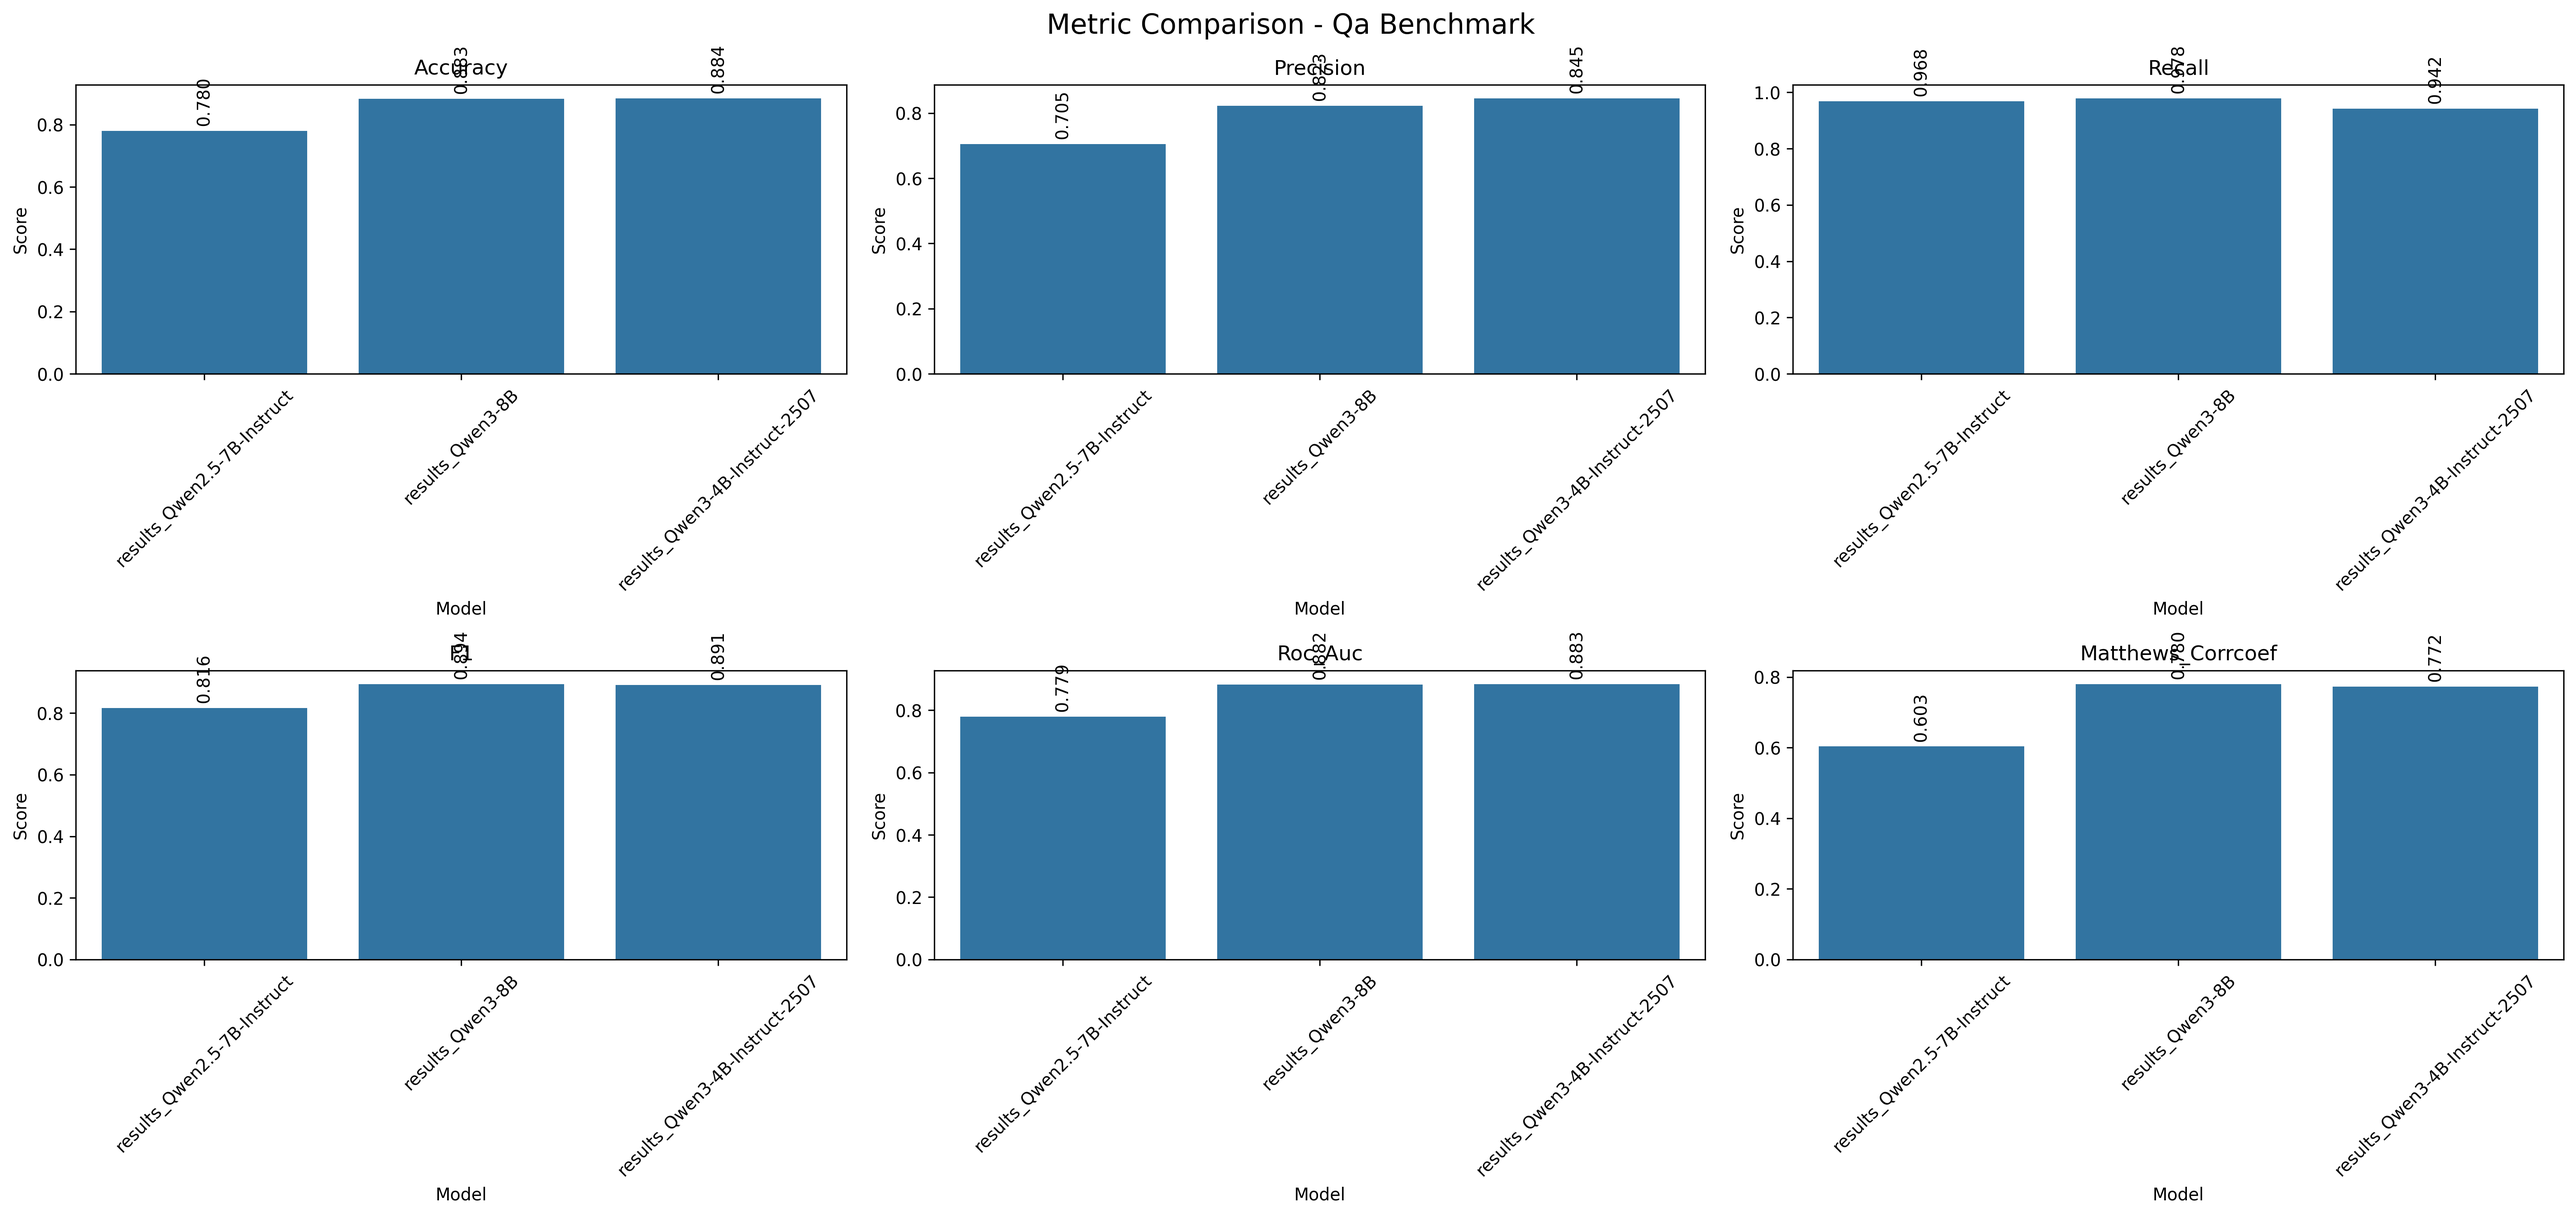
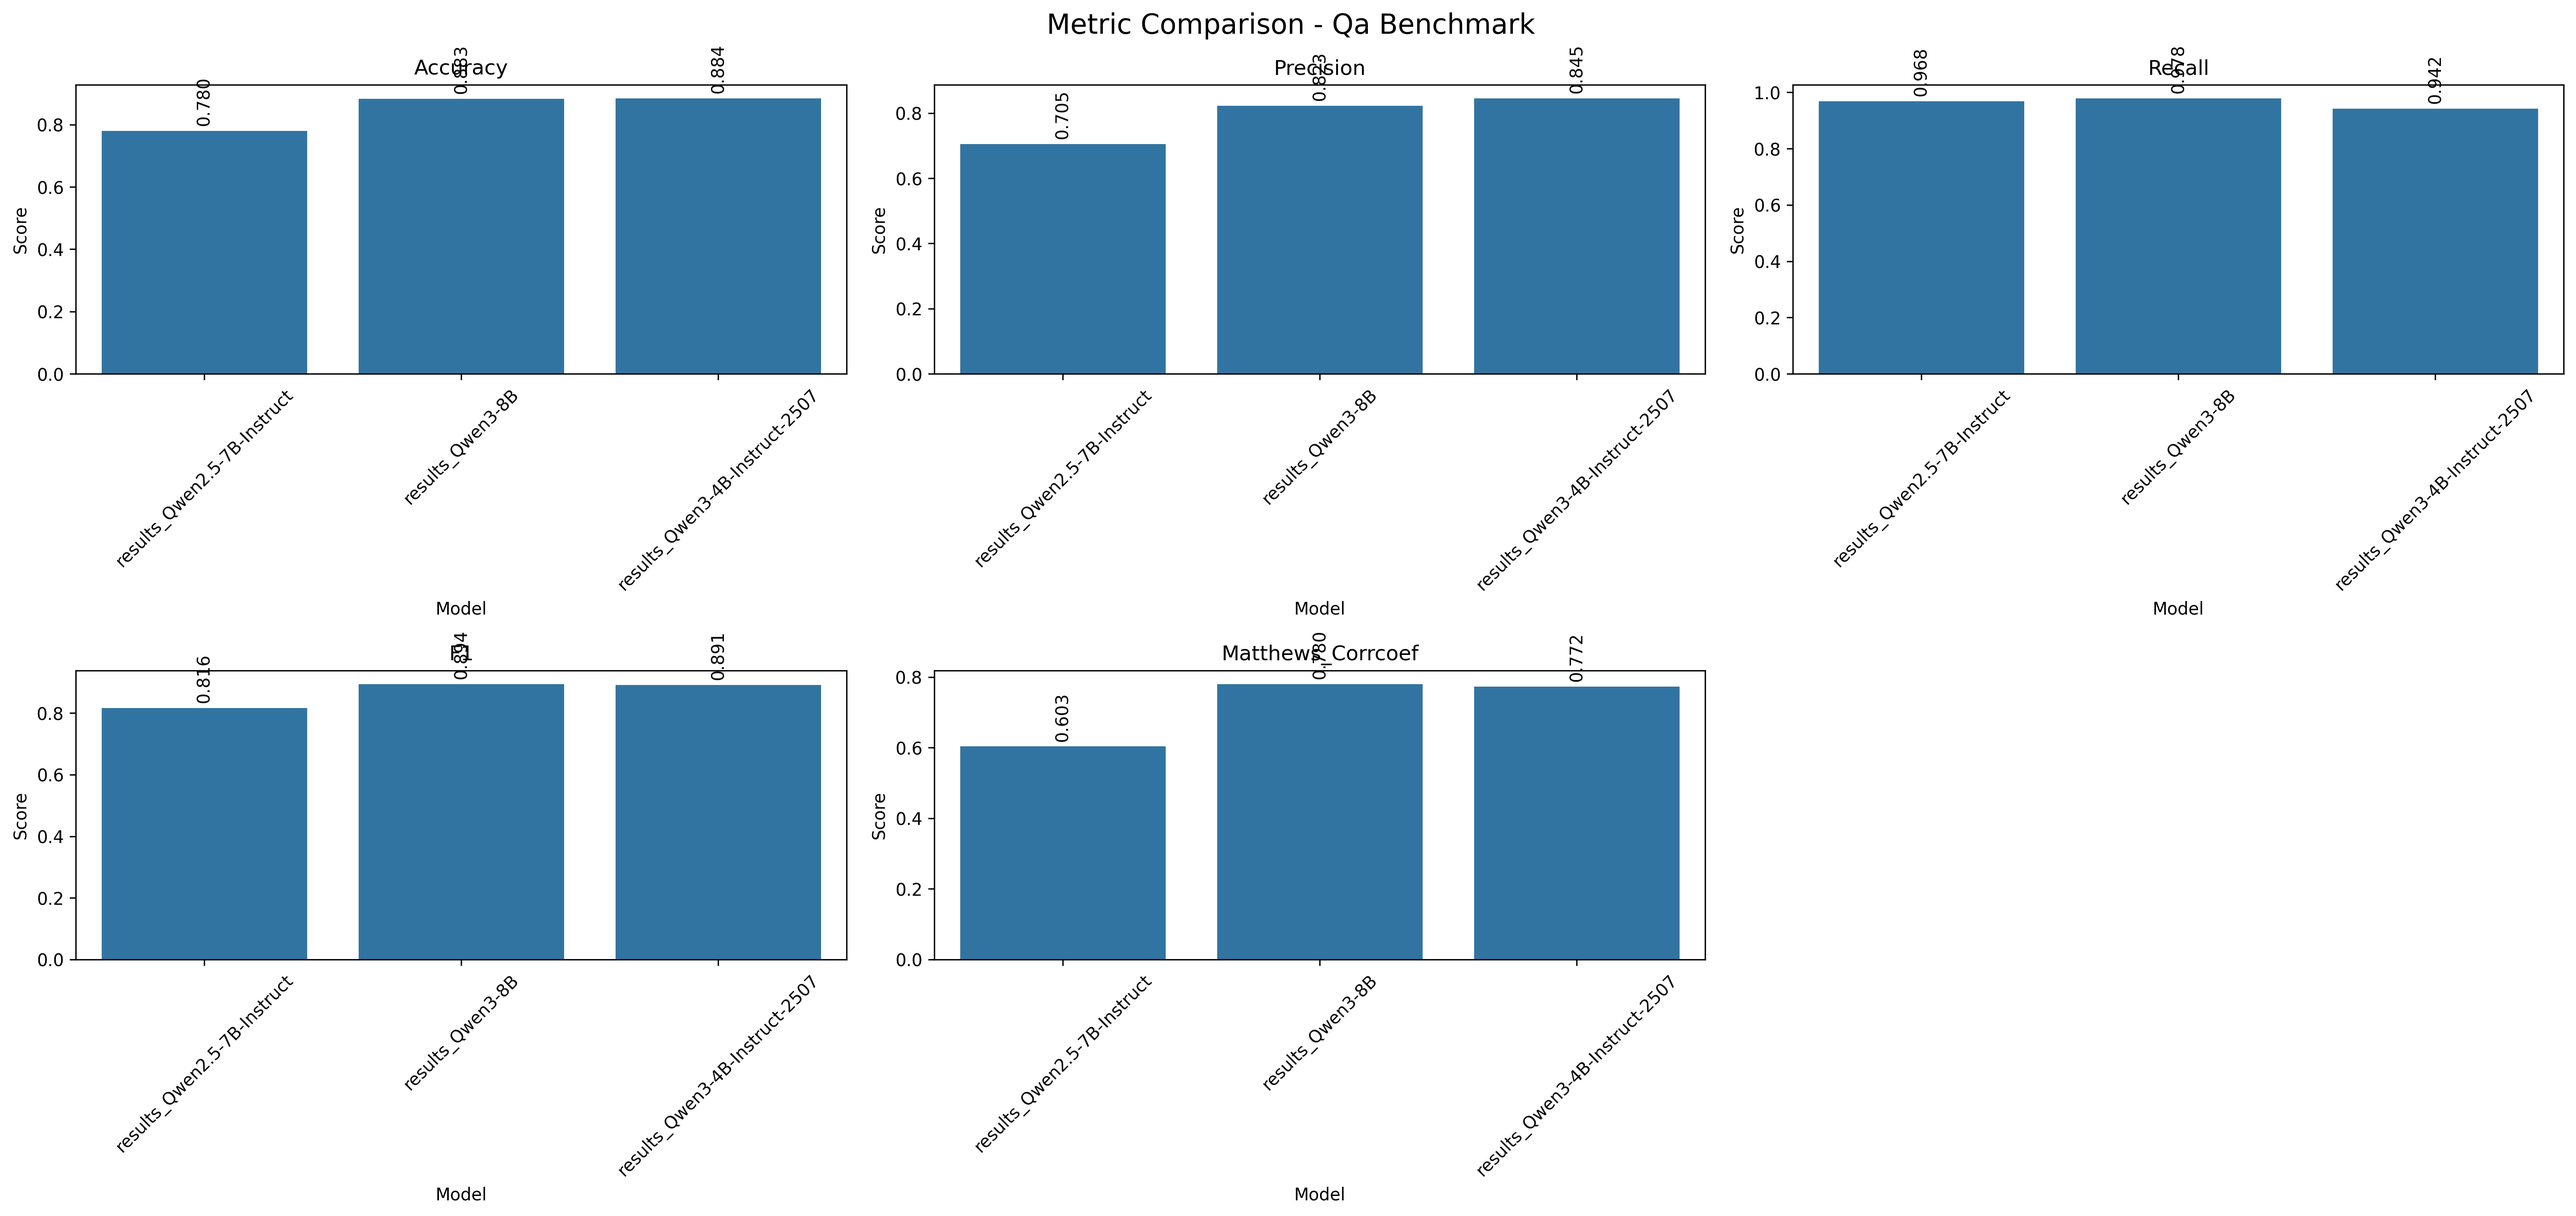
Updated readme and metrics

Changed region(s): [[0.6857, 0.5295, 0.9974, 0.8097], [0.374, 0.5606, 0.4676, 0.6229], [0.4676, 0.5295, 0.5299, 0.5606]]

diff --git a/scripts/calculate_metrics.py b/scripts/calculate_metrics.py
@@ -3,7 +3,7 @@ import sys
 import json
 import os
 from typing import List, Dict
-from sklearn.metrics import accuracy_score, precision_score, recall_score, f1_score, roc_auc_score
+from sklearn.metrics import accuracy_score, precision_score, recall_score, f1_score
 import hydra
 from omegaconf import DictConfig
 
@@ -132,9 +132,7 @@ def main(cfg: DictConfig):
     for metric_config in cfg.metrics.additional:
         if metric_config.enabled:
             metric_name = metric_config.name
-            if metric_name == "roc_auc":
-                metrics[metric_name] = roc_auc_score(y_true, y_pred)
-            elif metric_name == "matthews_corrcoef":
+            if metric_name == "matthews_corrcoef":
                 from sklearn.metrics import matthews_corrcoef
                 metrics[metric_name] = matthews_corrcoef(y_true, y_pred)
     

diff --git a/conf/README.md b/conf/README.md
@@ -104,11 +104,6 @@ To use a different model name (consistent with evaluation):
 python scripts/calculate_metrics.py evaluation.model_choice=qwen3_4b_2507
 ```
 
-To enable additional metrics:
-```bash
-python scripts/calculate_metrics.py metrics.additional.roc_auc.enabled=true
-```
-
 ## Configuration Override Examples
 
 ### Use CPU models for generation:
@@ -116,11 +111,6 @@ python scripts/calculate_metrics.py metrics.additional.roc_auc.enabled=true
 python scripts/benchmark_generation.py generation_models=local council_judges=local
 ```
 
-### Use API models for evaluation:
-```bash
-python scripts/benchmark_evaluation.py evaluation_models=api
-```
-
 ### Enable additional metrics:
 ```bash
-python scripts/calculate_metrics.py metrics.additional.roc_auc.enabled=true metrics.additional.matthews_corrcoef.enabled=true
+python scripts/calculate_metrics.py metrics.additional.matthews_corrcoef.enabled=true

diff --git a/README.md b/README.md
@@ -55,7 +55,7 @@ LongConMultitaskBench/
 
 ### Metrics Configuration (`conf/metrics/config.yaml`)
 - Enabled metrics selection
-- Additional metrics options (ROC AUC, Matthews correlation)
+- Additional metrics options (Matthews correlation for example)
 
 ## Usage
 
